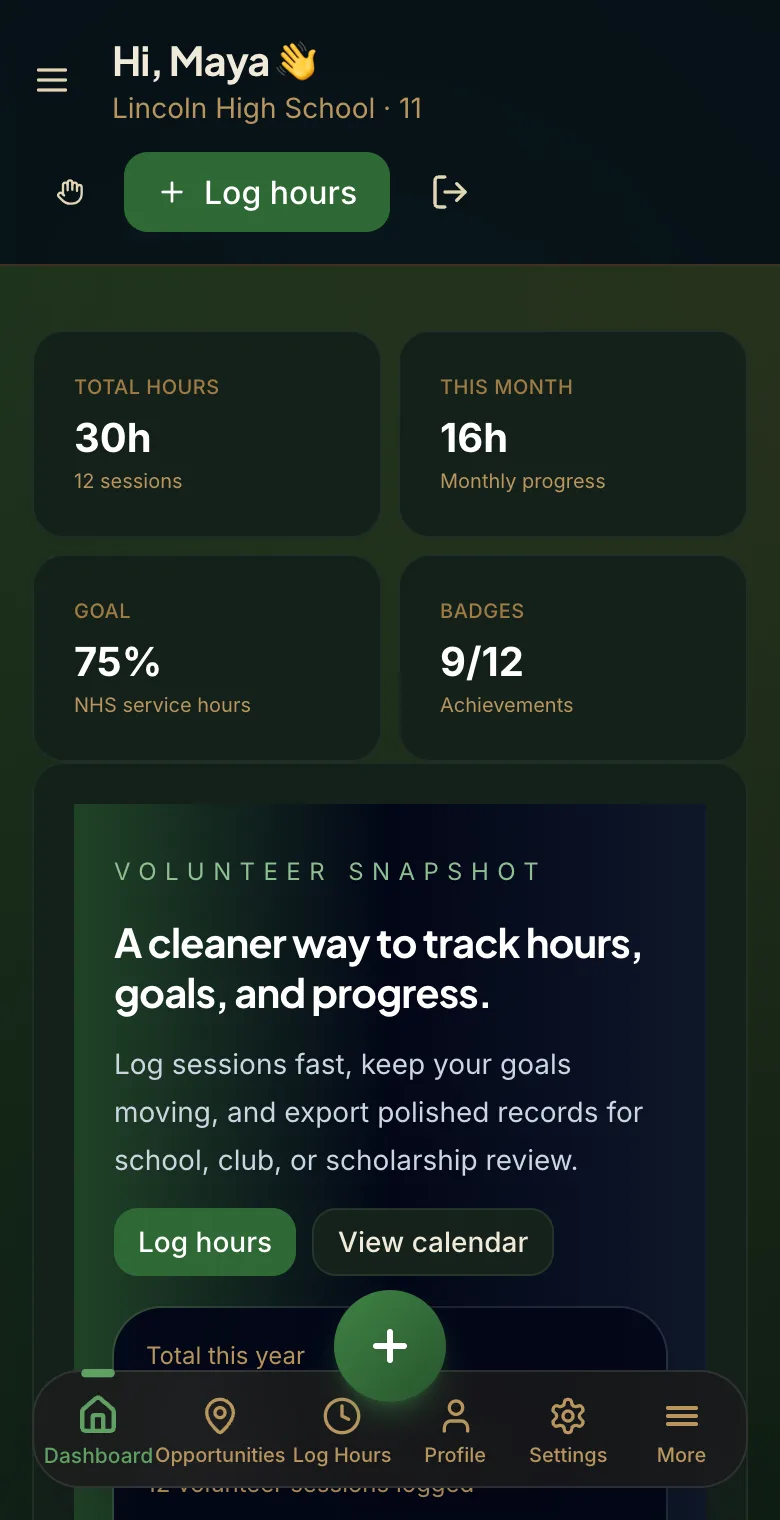
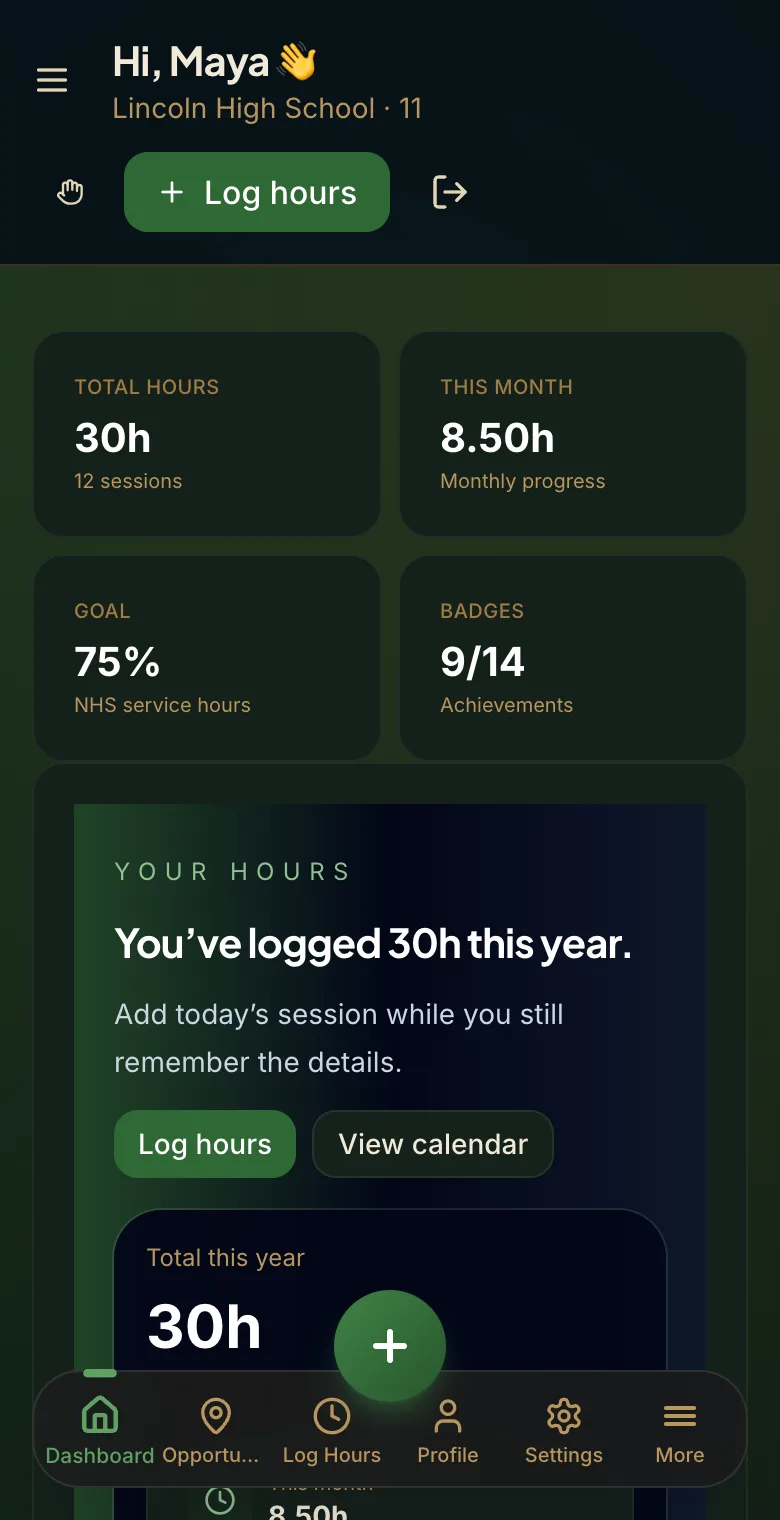
chore(copy): plain, specific wording on the home page and Dashboard (#749)
Closes #748

Claude-Session: https://claude.ai/code/session_01VD58mQLZFLSCNUrZw1JsWE

diff --git a/src/pages/About.jsx b/src/pages/About.jsx
@@ -1,6 +1,6 @@
 import { useState, useEffect, useRef } from 'react'
 import { Link } from 'react-router-dom'
-import { ArrowRight, Target, Trophy, FileText, Calendar, Sparkles, ShieldCheck, Users, Clock, ChevronDown, Star, CheckCircle, QrCode, CalendarClock, ClipboardCheck, BarChart3, Building2, Heart, TreePine, BookOpen as Book, Stethoscope, PawPrint, Palette, Dumbbell, Church, Megaphone, Ambulance, Globe, School, GraduationCap, Building, TrendingUp, Smartphone, Download, Lock, Bell, Zap, Menu, X, FileSignature, UserPlus, Link2, Mail, ClipboardList } from 'lucide-react'
+import { ArrowRight, Target, Trophy, FileText, Calendar, ShieldCheck, Users, Clock, ChevronDown, Star, CheckCircle, QrCode, CalendarClock, ClipboardCheck, BarChart3, Building2, Heart, TreePine, BookOpen as Book, Stethoscope, PawPrint, Palette, Dumbbell, Church, Megaphone, Ambulance, Globe, School, GraduationCap, Building, TrendingUp, Smartphone, Download, Lock, Bell, Zap, Menu, X, FileSignature, UserPlus, Link2, Mail, ClipboardList } from 'lucide-react'
 import Card from '@/components/Card.jsx'
 import Footer from '@/components/Footer.jsx'
 import PromoBanner from '@/components/PromoBanner.jsx'
@@ -16,16 +16,16 @@ const FEATURES = [
   { icon: Calendar,  title: 'Simple hour logging', body: 'Log activity, time, location, and proof so your volunteer work is always ready to share.' },
   { icon: Target,    title: 'Goal progress', body: 'Set a target and watch the progress ring fill as your hours add up.' },
   { icon: Trophy,    title: 'Achievements', body: 'Earn badges for consistency, milestones, and service across categories.' },
-  { icon: FileText,  title: 'Reports & certificates', body: 'Export polished PDFs, CSVs, and printable certifications in seconds.' },
+  { icon: FileText,  title: 'Reports & certificates', body: 'Download a PDF or CSV, or print a certificate of service.' },
 ]
 
 const DETAILED_FEATURES = [
-  { icon: FileSignature, title: 'Signed, verifiable hours', body: 'Supervisors approve your hours with a signature — in person on your phone, from a link you email them, or from their own VolunTrack account if they posted the task. On a laptop, they can scan a QR code and sign on their phone instead.' },
-  { icon: Download, title: 'Export ready for anything', body: 'Generate clean PDF reports with signatures, CSV data exports, and printable certificates for NHS, honor societies, scholarships, and school requirements.' },
+  { icon: FileSignature, title: 'Signed, verifiable hours', body: 'Supervisors approve your hours with a signature: in person on your phone, from a link you email them, or from their own VolunTrack account if they posted the task. On a laptop, they can scan a QR code and sign on their phone instead.' },
+  { icon: Download, title: 'Export ready for anything', body: 'Download PDF reports with signatures, CSV data exports, and printable certificates for NHS, honor societies, scholarships, and school requirements.' },
   { icon: Lock, title: 'Private by design', body: 'Your hours sync securely so your school can review them, and only you, your school and parents you invite can see them. Signature drawings stay on your device. We never sell your data or show ads.' },
   { icon: Bell, title: 'Reminders', body: 'Set recurring reminders so you never forget to log a session. Turn on notifications and they reach you even when VolunTrack isn\'t open.' },
-  { icon: Smartphone, title: 'Works on any device', body: 'Log hours from your phone, tablet, or laptop. Add it to your home screen for an app-like experience that keeps working offline.' },
-  { icon: TrendingUp, title: 'Visual progress tracking', body: 'Monitor your monthly trends with bar charts, watch goal rings fill up, and see your all-time stats at a glance on a single dashboard.' },
+  { icon: Smartphone, title: 'Works on any device', body: 'Log hours from your phone, tablet, or laptop. Add it to your home screen and it keeps working offline.' },
+  { icon: TrendingUp, title: 'Visual progress tracking', body: 'Monitor your monthly trends with bar charts, watch goal rings fill up, and see your all-time totals on one dashboard.' },
   { icon: QrCode, title: 'Event check-in and check-out', body: 'Volunteers check in and out at events with a QR code, a kiosk and their own private PIN, or a check-out PIN from the organizer. Their hours are worked out from the times and sent to the organizer to sign.' },
   { icon: CalendarClock, title: 'Find events when you\'re free', body: 'Tell VolunTrack the days and times you\'re usually free, and Opportunities shows only the events that fit.' },
   { icon: ClipboardCheck, title: 'Clubs and assignments', body: 'Advisers group students into clubs, give a club an hours assignment with a due date, and see who has finished. Students attach their entries to it.' },
@@ -38,19 +38,19 @@ const DETAILED_FEATURES = [
 const HOW_IT_WORKS = {
   student: {
     heading: 'How do you start tracking volunteer hours?',
-    intro: 'Create a free account, log your hours, track progress toward a goal, and export a report — no credit card, in under five minutes.',
+    intro: 'Create a free account, log your hours, track progress toward a goal, and export a report. No credit card, and it takes under five minutes.',
     categories: 'VolunTrack supports a wide range of volunteer categories so you can log whatever service you do.',
     steps: [
       { icon: Users, title: 'Create your account', body: 'Sign up free and confirm your email with a 6-digit code. No credit card needed.' },
       { icon: Clock, title: 'Log your hours', body: 'Record activity, duration, location, and supervisor details on the go.' },
       { icon: BarChart3, title: 'Track progress', body: 'Watch your monthly totals, goal rings, and achievements fill up.' },
-      { icon: Trophy, title: 'Earn & export', body: 'Unlock badges and export polished reports for school or scholarships.' },
+      { icon: Trophy, title: 'Earn & export', body: 'Earn badges along the way, then download a report for school or a scholarship.' },
     ],
   },
   parent: {
     heading: 'How do you follow your child’s hours?',
-    intro: 'A free parent account shows what your child has logged and how close they are to their goal — read only, so the record stays theirs.',
-    categories: 'Whatever kind of service your child does, it counts — and you’ll see each entry with its category.',
+    intro: 'A free parent account shows what your child has logged and how close they are to their goal. It’s read only, so the record stays theirs.',
+    categories: 'Whatever kind of service your child does, it counts, and you’ll see each entry with its category.',
     steps: [
       { icon: UserPlus, title: 'Create a parent account', body: 'Sign up free and choose “I’m a Parent.” No credit card needed.' },
       { icon: Link2, title: 'Link to your child', body: 'Your child finds their link code in Settings → Family. Enter it once to connect.' },
@@ -60,8 +60,8 @@ const HOW_IT_WORKS = {
   },
   volunteer: {
     heading: 'How do you find volunteers?',
-    intro: 'Post an opportunity, approve who signs up, and sign off their hours in VolunTrack — no paperwork for you or the students.',
-    categories: 'Whatever your cause — a food bank, a park cleanup, tutoring, an animal shelter — the students who help can log it.',
+    intro: 'Post an opportunity, approve who signs up, and sign off their hours in VolunTrack. No paperwork for you or the students.',
+    categories: 'A food bank, a park cleanup, tutoring, an animal shelter: whatever your cause, the students who help can log it.',
     steps: [
       { icon: Users, title: 'Create your account', body: 'Sign up free and choose “I’m a Volunteer Task Maker.”' },
       { icon: ClipboardList, title: 'Post a task', body: 'Add what, where, when, and how many volunteers you need. Students find it on their Opportunities page.' },
@@ -87,7 +87,7 @@ const CATEGORIES = [
 const AUDIENCES = [
   {
     icon: GraduationCap, title: 'Students',
-    body: 'Track required service hours for NHS, honor societies, scholarships, and college applications. Export proof-ready reports in seconds.',
+    body: 'Track required service hours for NHS, honor societies, scholarships, and college applications. Download a signed report when it’s due.',
     perks: ['Goal-based hour tracking', 'Signed supervisor approval', 'PDF & CSV exports'],
   },
   {
@@ -97,28 +97,28 @@ const AUDIENCES = [
   },
   {
     icon: Building, title: 'Schools & districts',
-    body: 'Adopt VolunTrack across your entire school or district. Set your own rules — required fields, hour goals, and whether entries must be signed or carry your own form — and every student logs the same way.',
+    body: 'Adopt VolunTrack across your entire school or district. Set your own rules (required fields, hour goals, and whether entries must be signed or carry your own form), and every student logs the same way.',
     perks: ['Your own requirements', 'Signatures & school forms', 'Admin & co-admin dashboards'],
   },
   {
     icon: Globe, title: 'Nonprofits & community groups',
-    body: 'Post volunteer tasks, approve sign-ups, sign off volunteers\' hours right in VolunTrack, and generate impact reports for grants, boards, and stakeholders.',
+    body: 'Post volunteer tasks, approve sign-ups, sign off volunteers\' hours right in VolunTrack, and print impact reports for grants and your board.',
     perks: ['Check-in and check-out', 'Sign off hours in-app', 'Impact reporting'],
   },
 ]
 
 const FAQS = [
-  { q: 'Is VolunTrack free?', a: 'Yes, for individuals. Students, volunteers, and parents get every feature — logging, goals, badges, reminders, reports, supervisor verification — at no cost, with no paid tiers, ads, or hidden fees. Schools and organizations are on custom pricing; contact us for a quote.' },
-  { q: 'Can I export my hours for school requirements?', a: 'Absolutely. From the Reports page you can download a formatted PDF, export a CSV for spreadsheets, or print a certificate of service. Every entry carries its date, hours, activity, category, supervisor, and verification status. If you\'re linked to a school, you can also submit a report to them directly and track whether it\'s approved.' },
-  { q: 'How does supervisor verification work?', a: 'Your supervisor approves the entry with a signature, or rejects it. If they\'re next to you, they can sign right on your phone. If not, add their email: VolunTrack can email them a one-time review link, or give you a ready-made email to send yourself — no account needed on their side, and on a laptop they can scan a QR code to sign on their phone. For tasks from the Opportunities page, the organizer signs it off from their own VolunTrack account. The entry then shows as Pending, Approved, or Rejected, and your school can see how each one was signed.' },
-  { q: 'Is my data private?', a: "Yes. Your hours are stored in a secure database, protected by your password and, if you turn them on, two-factor authentication or a passkey. They're visible only to you, the school you join, and parents you invite. Signature drawings stay on your device — the server only records that an entry was signed. We never sell your data or show ads. See the Privacy Policy for the details." },
-  { q: 'Can schools and organizations use VolunTrack?', a: 'Yes. One club or class with up to 50 students can start free right away from the school sign-up page. For a whole school, contact us for a quote and we\'ll send a one-time registration code to set up its account. The school then shares a join code so students link their hours to the school for review and approval, with dashboards for reports, students, and announcements. A school sets its own requirements: which fields an entry needs, extra questions, the hour goal, and whether each entry must be signed — by the supervisor, the student, or both — or come with the school\'s own form, including a Google Form students fill in without leaving VolunTrack. Up to 10 co-admins can share a school\'s dashboard. Organization accounts (for managing multiple schools) are set up the same way, with an invite or a one-time code from us, on custom pricing.' },
-  { q: 'Can a parent follow my hours?', a: 'Only if you invite them. In Settings, generate a family link code and share it with your parent, who enters it in their own account. Each code works once, and you can see and remove linked parents at any time. They get a read-only view of hours you log from the moment they link — earlier entries stay private, and they can\'t edit or delete anything — plus an optional weekly progress email they can unsubscribe from at any time.' },
-  { q: 'Where can I find volunteer opportunities?', a: 'The Opportunities page lists public tasks posted by schools and organizations, sorted by distance if you share your location. Sign up in one click; once the organizer approves you, link your hours to the task when you log them and the organizer signs them off from their own account — nothing to email.' },
-  { q: 'What if I forget to log a session?', a: 'You can log past sessions anytime — just set the date when you add the entry. The Reminders page also lets you schedule recurring nudges so sessions don\'t pile up unrecorded.' },
-  { q: 'Does VolunTrack work offline?', a: 'Yes. VolunTrack is a Progressive Web App — after your first visit, it keeps working without an internet connection, and the hours already on your device stay available. Anything that needs the server, like syncing or school submissions, catches up once you\'re back online.' },
+  { q: 'Is VolunTrack free?', a: 'Yes, for individuals. Students, volunteers, and parents get every feature (logging, goals, badges, reminders, reports, supervisor sign-off) at no cost, with no paid tiers, ads, or hidden fees. Schools and organizations are on custom pricing; contact us for a quote.' },
+  { q: 'Can I export my hours for school requirements?', a: 'Yes. From the Reports page you can download a formatted PDF, export a CSV for spreadsheets, or print a certificate of service. Every entry carries its date, hours, activity, category, supervisor, and verification status. If you\'re linked to a school, you can also submit a report to them directly and track whether it\'s approved.' },
+  { q: 'How does supervisor verification work?', a: 'Your supervisor approves the entry with a signature, or rejects it. If they\'re next to you, they can sign right on your phone. If not, add their email: VolunTrack can email them a one-time review link, or give you a ready-made email to send yourself. They don’t need an account, and on a laptop they can scan a QR code to sign on their phone. For tasks from the Opportunities page, the organizer signs it off from their own VolunTrack account. The entry then shows as Pending, Approved, or Rejected, and your school can see how each one was signed.' },
+  { q: 'Is my data private?', a: "Yes. Your hours are stored in a secure database, protected by your password and, if you turn them on, two-factor authentication or a passkey. They're visible only to you, the school you join, and parents you invite. Signature drawings stay on your device; the server only records that an entry was signed. We never sell your data or show ads. See the Privacy Policy for the details." },
+  { q: 'Can schools and organizations use VolunTrack?', a: 'Yes. One club or class with up to 50 students can start free right away from the school sign-up page. For a whole school, contact us for a quote and we\'ll send a one-time registration code to set up its account. The school then shares a join code so students link their hours to the school for review and approval, with dashboards for reports, students, and announcements. A school sets its own requirements: which fields an entry needs, extra questions, the hour goal, and whether each entry must be signed (by the supervisor, the student, or both) or come with the school\'s own form, including a Google Form students fill in without leaving VolunTrack. Up to 10 co-admins can share a school\'s dashboard. Organization accounts (for managing multiple schools) are set up the same way, with an invite or a one-time code from us, on custom pricing.' },
+  { q: 'Can a parent follow my hours?', a: 'Only if you invite them. In Settings, generate a family link code and share it with your parent, who enters it in their own account. Each code works once, and you can see and remove linked parents at any time. They get a read-only view of hours you log from the moment they link. Earlier entries stay private, and they can\'t edit or delete anything. They can also get an optional weekly progress email they can unsubscribe from at any time.' },
+  { q: 'Where can I find volunteer opportunities?', a: 'The Opportunities page lists public tasks posted by schools and organizations, sorted by distance if you share your location. Sign up in one click; once the organizer approves you, link your hours to the task when you log them and the organizer signs them off from their own account, so there’s nothing to email.' },
+  { q: 'What if I forget to log a session?', a: 'You can log past sessions anytime. Just set the date when you add the entry. The Reminders page also lets you schedule recurring nudges so sessions don\'t pile up unrecorded.' },
+  { q: 'Does VolunTrack work offline?', a: 'Yes. VolunTrack is a Progressive Web App. After your first visit, it keeps working without an internet connection, and the hours already on your device stay available. Anything that needs the server, like syncing or school submissions, catches up once you\'re back online.' },
   { q: 'What if I switch devices?', a: 'Sign in on the new device with your email and password and your hours come with you. To skip typing your password, go to Settings on a signed-in device and generate a sync PIN (the card is called Mobile sync PIN on a computer, Laptop sync PIN on a phone). On the new device, choose Use sync PIN on the login page and enter the 5-digit code, or scan its QR code. A sync PIN works once and expires after 15 minutes.' },
-  { q: 'Do I need to create an account?', a: "Yes — a free account is how your hours are saved, synced across your devices, and shared with your school. Sign up with your name, email, password (at least 8 characters) and date of birth, then enter the 6-digit code we email you to confirm your address; the code expires after 10 minutes. If you're under 13, a parent or guardian approves the account by email first." },
+  { q: 'Do I need to create an account?', a: "Yes. A free account is how your hours are saved, synced across your devices, and shared with your school. Sign up with your name, email, password (at least 8 characters) and date of birth, then enter the 6-digit code we email you to confirm your address; the code expires after 10 minutes. If you're under 13, a parent or guardian approves the account by email first." },
   { q: 'Is there a mobile app?', a: 'Android and iPhone apps are on the way to Google Play and the App Store. Until then, VolunTrack is a Progressive Web App: open it in your phone\'s browser and tap "Add to Home Screen" for an app-like experience that works offline.' },
 ]
 
@@ -194,7 +194,7 @@ export default function About() {
   // to "/" so search engines don't treat them as duplicate pages.
   useSeo({
     title: 'Volunteer Hour Tracker for Students & Schools',
-    description: 'VolunTrack is a calm volunteer hour tracker. Log hours, set goals, earn badges, and generate reports for school or community service.',
+    description: 'Free volunteer hour tracker for students. Log hours, get them signed by your supervisor, and download a report for NHS, scholarships or graduation.',
     canonicalPath: '/',
     jsonLd: faqJsonLd,
   })
@@ -280,15 +280,15 @@ export default function About() {
               className="inline-block text-left mb-6 max-w-md"
               fallback={(
                 <div className="inline-flex items-center gap-2 rounded-full border border-brand-700/30 bg-brand-900/20 px-4 py-1.5 text-xs font-medium text-brand-300 mb-6">
-                  <Zap className="w-3.5 h-3.5 animate-float" /> Free for students — no credit card needed
+                  <Zap className="w-3.5 h-3.5 animate-float" /> Free for students, no credit card
                 </div>
               )}
             />
             <h1 className="text-4xl md:text-6xl font-bold tracking-tight text-white leading-tight">
-              Track your volunteer hours, earn rewards, and showcase your impact.
+              Your volunteer hours, logged, signed and ready when school asks.
             </h1>
             <p className="mt-5 text-lg md:text-xl text-earth-300 max-w-2xl mx-auto leading-8">
-              VolunTrack gives students and organizations a clean, private way to log service work, measure progress toward goals, and export polished records for school, scholarship, or club requirements.
+              Log a session in about a minute, get your supervisor to sign it on your phone, and print a report when NHS, a scholarship or graduation asks for your hours. Free for students.
             </p>
             <div ref={heroCtaRef} className="mt-8 flex flex-col sm:flex-row gap-3 justify-center">
               <Link to="/register" className="btn-primary inline-flex items-center gap-2 justify-center px-8 py-3.5 rounded-xl text-base font-semibold">
@@ -357,12 +357,12 @@ export default function About() {
                 <p className="text-sm uppercase tracking-[0.35em] text-brand-600">Core features</p>
                 <h2 className="mt-3 text-3xl font-bold text-earth-950 dark:text-white">What can you do with VolunTrack?</h2>
                 <p className="mt-3 text-earth-300 font-semibold max-w-xl">
-                  Log hours with proof, track progress toward a goal, earn achievement badges, and export polished PDF/CSV reports and certificates.
+                  Log hours with proof, track progress toward a goal, earn achievement badges, and download PDF or CSV reports and certificates.
                 </p>
               </div>
               <div className="flex flex-wrap gap-3">
-                <span className="inline-flex items-center gap-2 rounded-full bg-brand-100 px-4 py-2 text-sm font-semibold text-brand-700 dark:bg-brand-900/30 dark:text-brand-300"><ShieldCheck className="w-4 h-4" /> Private — no ads, never sold</span>
-                <span className="inline-flex items-center gap-2 rounded-full bg-earth-100 px-4 py-2 text-sm font-semibold text-earth-700 dark:bg-white/5 dark:text-earth-300"><Users className="w-4 h-4" /> Volunteer Task Maker — post opportunities</span>
+                <span className="inline-flex items-center gap-2 rounded-full bg-brand-100 px-4 py-2 text-sm font-semibold text-brand-700 dark:bg-brand-900/30 dark:text-brand-300"><ShieldCheck className="w-4 h-4" /> Private: no ads, never sold</span>
+                <span className="inline-flex items-center gap-2 rounded-full bg-earth-100 px-4 py-2 text-sm font-semibold text-earth-700 dark:bg-white/5 dark:text-earth-300"><Users className="w-4 h-4" /> Volunteer Task Maker: post opportunities</span>
                 <span className="inline-flex items-center gap-2 rounded-full bg-earth-100 px-4 py-2 text-sm font-semibold text-earth-700 dark:bg-white/5 dark:text-earth-300"><FileSignature className="w-4 h-4" /> Signed supervisor approval</span>
               </div>
             </div>
@@ -473,8 +473,7 @@ export default function About() {
           </section>
 
           <section ref={endCtaRef} data-animate className="mt-20 rounded-[2rem] bg-gradient-to-br from-brand-600 to-brand-700 p-10 md:p-16 text-center">
-            <Sparkles className="w-10 h-10 text-brand-200 mx-auto animate-float" />
-            <h2 className="mt-4 text-3xl md:text-4xl font-bold text-white">Ready to start tracking your impact?</h2>
+            <h2 className="text-3xl md:text-4xl font-bold text-white">Log your first hours today.</h2>
             <p className="mt-3 text-brand-100 max-w-lg mx-auto leading-7">
               Log your first hours in minutes. It&rsquo;s free for students, with no credit card and no ads.
             </p>
@@ -497,7 +496,7 @@ export default function About() {
               <ul className="mt-6 space-y-3 text-sm text-earth-700 dark:text-earth-300">
                 <li className="flex items-start gap-3"><CheckCircle className="w-5 h-5 text-brand-500 shrink-0 mt-0.5" /> Save each session with location, category, and supervisor details</li>
                 <li className="flex items-start gap-3"><CheckCircle className="w-5 h-5 text-brand-500 shrink-0 mt-0.5" /> Watch your month and goal progress in one dashboard</li>
-                <li className="flex items-start gap-3"><CheckCircle className="w-5 h-5 text-brand-500 shrink-0 mt-0.5" /> Get each entry signed — in person, by email, or by the task organizer</li>
+                <li className="flex items-start gap-3"><CheckCircle className="w-5 h-5 text-brand-500 shrink-0 mt-0.5" /> Get each entry signed in person, by email, or by the task organizer</li>
                 <li className="flex items-start gap-3"><CheckCircle className="w-5 h-5 text-brand-500 shrink-0 mt-0.5" /> Export proofs instantly for school or community review</li>
               </ul>
             </Card>

diff --git a/index.html b/index.html
@@ -6,7 +6,7 @@
     <link rel="apple-touch-icon" sizes="180x180" href="/apple-touch-icon.png" />
     <meta name="viewport" content="width=device-width, initial-scale=1.0, viewport-fit=cover" />
     <meta name="theme-color" content="#3f8344" />
-    <meta name="description" content="VolunTrack is a calm volunteer hour tracker. Log hours, set goals, earn badges, and generate reports for school or community service." />
+    <meta name="description" content="Free volunteer hour tracker for students. Log hours, get them signed by your supervisor, and download a report for NHS, scholarships or graduation." />
     <meta name="apple-mobile-web-app-capable" content="yes" />
     <meta name="apple-mobile-web-app-status-bar-style" content="default" />
     <meta name="apple-mobile-web-app-title" content="VolunTrack" />
@@ -22,7 +22,7 @@
     <meta property="og:type" content="website" />
     <meta property="og:site_name" content="VolunTrack" />
     <meta property="og:title" content="VolunTrack · Volunteer Hour Tracker" />
-    <meta property="og:description" content="VolunTrack is a calm volunteer hour tracker. Log hours, set goals, earn badges, and generate reports for school or community service." />
+    <meta property="og:description" content="Free volunteer hour tracker for students. Log hours, get them signed by your supervisor, and download a report for NHS, scholarships or graduation." />
     <meta property="og:url" content="%VITE_SITE_URL%/" />
     <meta property="og:image" content="%VITE_SITE_URL%/og-image.png" />
     <meta property="og:image:width" content="1200" />
@@ -30,7 +30,7 @@
     <meta property="og:image:alt" content="VolunTrack — track volunteer hours, get them signed off, and share them with your school." />
     <meta name="twitter:card" content="summary_large_image" />
     <meta name="twitter:title" content="VolunTrack · Volunteer Hour Tracker" />
-    <meta name="twitter:description" content="VolunTrack is a calm volunteer hour tracker. Log hours, set goals, earn badges, and generate reports for school or community service." />
+    <meta name="twitter:description" content="Free volunteer hour tracker for students. Log hours, get them signed by your supervisor, and download a report for NHS, scholarships or graduation." />
     <meta name="twitter:image" content="%VITE_SITE_URL%/og-image.png" />
     <meta name="twitter:image:alt" content="VolunTrack — track volunteer hours, get them signed off, and share them with your school." />
 
@@ -44,7 +44,7 @@
         "applicationSubCategory": "Volunteer hour tracker",
         "operatingSystem": "Web",
         "browserRequirements": "Requires JavaScript. Requires HTML5.",
-        "description": "VolunTrack is a calm volunteer hour tracker. Log hours, set goals, earn badges, and generate reports for school or community service.",
+        "description": "Free volunteer hour tracker for students. Log hours, get them signed by your supervisor, and download a report for NHS, scholarships or graduation.",
         "featureList": [
           "Log volunteer hours with activity, category, location, and notes",
           "Supervisor verification by one-time email link (no account needed)",

diff --git a/src/components/DashboardGallery.jsx b/src/components/DashboardGallery.jsx
@@ -17,7 +17,7 @@ const ROLES = [
     screens: [
       screen('dashboard', 'Dashboard', 'dashboard',
         'Students see their goal, this month’s hours, and badges at a glance.',
-        'The VolunTrack student dashboard: 30 hours logged this year, 75% of a 40-hour NHS service goal, 9 of 12 badges earned, and this week’s hours.'),
+        'The VolunTrack student dashboard: 30 hours logged this year, 75% of a 40-hour NHS service goal, 9 of 14 badges earned, and this week’s hours.'),
       screen('opportunities', 'Opportunities', 'student-opportunities',
         'Find volunteer tasks near you and sign up in a tap.',
         'The Opportunities page: upcoming volunteer tasks such as a park cleanup, dog walking and a kids’ reading hour, each with its date, place and spots left.'),
@@ -52,7 +52,7 @@ const ROLES = [
         'Organizers post volunteer tasks and see who has signed up.',
         'The task organizer view: three upcoming volunteer tasks with dates, locations, and how many students have signed up.'),
       screen('post', 'Post a task', 'volunteer-post',
-        'Posting an opportunity is one short form — no paperwork.',
+        'Posting an opportunity is one short form, no paperwork.',
         'The Post a volunteer opportunity form: title, description, location, important info, phone, date, time and volunteers needed.'),
       screen('signups', 'Sign-ups', 'volunteer-signups',
         'Approve volunteers, then sign off their hours right in VolunTrack.',
@@ -188,7 +188,7 @@ export default function DashboardGallery({ onRoleChange }) {
       </div>
       <figcaption className="mt-3 text-center text-sm text-earth-400" aria-live="polite">
         {current.caption}
-        {hasMenu && <span className="block text-xs text-earth-500 mt-1">Click the screens above to look around — this is a preview with sample data.</span>}
+        {hasMenu && <span className="block text-xs text-earth-500 mt-1">Click the screens above to look around. This is a preview with sample data.</span>}
       </figcaption>
     </figure>
   )

diff --git a/src/pages/Dashboard.jsx b/src/pages/Dashboard.jsx
@@ -676,16 +676,20 @@ export default function Dashboard() {
           its content's min width, which pushed this card past the screen edge
           on phones. Desktop keeps the implicit columns its col-span-3 relies on. */}
       <div className="grid grid-cols-1 lg:grid-cols-none gap-5">
-        {/* A pitch ("A cleaner way to track hours…") — the apps' tiles above
-            already show these numbers, so it's left out there. */}
+        {/* Where the student stands this year; the apps' tiles above already
+            show these numbers, so it's left out there. */}
         {!isNativeApp && (
           <Card className="overflow-hidden lg:col-span-3">
             <div className="grid grid-cols-1 gap-4 lg:grid-cols-[1.5fr_1fr] bg-gradient-to-r from-brand-800 via-slate-950 to-slate-900 p-5">
               <div className="space-y-3 text-white">
-                <span className="text-xs uppercase tracking-[0.35em] text-brand-300">{tr('Volunteer snapshot')}</span>
-                <h2 className="text-xl font-bold leading-tight">{tr('A cleaner way to track hours, goals, and progress.')}</h2>
+                <span className="text-xs uppercase tracking-[0.35em] text-brand-300">{tr('Your hours')}</span>
+                <h2 className="text-xl font-bold leading-tight">
+                  {logs.length ? tr('You’ve logged {hours} this year.', { hours: fmtHours(total) }) : tr('Log your first hours')}
+                </h2>
                 <p className="max-w-xl text-sm text-slate-300 leading-6">
-                  {tr('Log sessions fast, keep your goals moving, and export polished records for school, club, or scholarship review.')}
+                  {logs.length
+                    ? tr('Add today’s session while you still remember the details.')
+                    : tr('It takes about a minute: what you did, when, where, and who can sign it.')}
                 </p>
                 <div className="flex flex-wrap gap-2">
                   <RoleLink to="/log" className="btn-primary btn-sm">{tr('Log hours')}</RoleLink>

diff --git a/src/pages/ForSchools.jsx b/src/pages/ForSchools.jsx
@@ -40,7 +40,7 @@ const STEPS = [
 const FAQS = [
   { q: 'What does it cost?', a: 'VolunTrack is free for students, volunteers and parents. One club or class with up to 50 students is free too, with every feature. A whole school, or a club with more students, is paid: send us a message and we will reply with a quote. If another school referred you, you both get a discount.' },
   { q: 'Do students need to download an app?', a: 'No. VolunTrack works in any web browser on a phone or computer, so students can sign up the moment they scan your flyer.' },
-  { q: 'Can one club use it, not the whole school?', a: 'Yes, and it is free for up to 50 students. Many schools start with one adviser — NHS, Key Club, a service club or a class. The club gets its own account, code and roster, and can move to a school plan later without losing anything.' },
+  { q: 'Can one club use it, not the whole school?', a: 'Yes, and it is free for up to 50 students. Many schools start with one adviser: NHS, Key Club, a service club or a class. The club gets its own account, code and roster, and can move to a school plan later without losing anything.' },
   { q: 'How do students join?', a: 'They open your join link or scan the QR code on your flyer, then create an account or sign in. The code is filled in for them. Students can also type the school code in Settings.' },
   { q: 'What happens to student data?', a: 'Students’ hours belong to them and to your school. We never sell or trade personal data, and we share it only with the school or parent a student connects to. Read the privacy policy for the details schools and districts ask about.' },
   { q: 'How long does setup take?', a: 'About five minutes: create the account, set your requirement, and send the join link.' },

diff --git a/src/locales/vi.js b/src/locales/vi.js
@@ -3072,4 +3072,9 @@ export default {
   "Links you share to an event, a school or your invite show a preview with its name.": "Liên kết bạn chia sẻ tới sự kiện, trường hoặc lời mời sẽ hiện bản xem trước kèm tên.",
   "Welcome tours": "Hướng dẫn chào mừng",
   "which welcome tours you have finished or skipped, so each one shows only once on any device. Deleted with your account.": "những hướng dẫn chào mừng bạn đã xem xong hoặc bỏ qua, để mỗi hướng dẫn chỉ hiện một lần trên mọi thiết bị. Bị xóa cùng tài khoản của bạn.",
+  "Your hours": "Giờ của bạn",
+  "You’ve logged {hours} this year.": "Năm nay bạn đã ghi {hours}.",
+  "Log your first hours": "Ghi những giờ đầu tiên",
+  "Add today’s session while you still remember the details.": "Hãy thêm buổi hôm nay khi bạn còn nhớ chi tiết.",
+  "It takes about a minute: what you did, when, where, and who can sign it.": "Chỉ mất khoảng một phút: bạn đã làm gì, khi nào, ở đâu và ai có thể ký xác nhận.",
 }

diff --git a/src/locales/es.js b/src/locales/es.js
@@ -3101,4 +3101,9 @@ export default {
   "Links you share to an event, a school or your invite show a preview with its name.": "Los enlaces que compartes a un evento, una escuela o tu invitación muestran una vista previa con su nombre.",
   "Welcome tours": "Recorridos de bienvenida",
   "which welcome tours you have finished or skipped, so each one shows only once on any device. Deleted with your account.": "qué recorridos de bienvenida terminaste u omitiste, para que cada uno aparezca solo una vez en cualquier dispositivo. Se borra con tu cuenta.",
+  "Your hours": "Tus horas",
+  "You’ve logged {hours} this year.": "Llevas {hours} registradas este año.",
+  "Log your first hours": "Registra tus primeras horas",
+  "Add today’s session while you still remember the details.": "Agrega la sesión de hoy mientras recuerdas los detalles.",
+  "It takes about a minute: what you did, when, where, and who can sign it.": "Toma como un minuto: qué hiciste, cuándo, dónde y quién puede firmarlo.",
 }

diff --git a/src/locales/zh.js b/src/locales/zh.js
@@ -3072,4 +3072,9 @@ export default {
   "Links you share to an event, a school or your invite show a preview with its name.": "你分享的活动、学校或邀请链接会显示带名称的预览。",
   "Welcome tours": "欢迎导览",
   "which welcome tours you have finished or skipped, so each one shows only once on any device. Deleted with your account.": "你已看完或跳过的欢迎导览，这样每个导览在任何设备上只出现一次。随账户一起删除。",
+  "Your hours": "你的时数",
+  "You’ve logged {hours} this year.": "今年你已记录 {hours}。",
+  "Log your first hours": "记录你的第一批时数",
+  "Add today’s session while you still remember the details.": "趁还记得细节，把今天的活动加上。",
+  "It takes about a minute: what you did, when, where, and who can sign it.": "大约一分钟：你做了什么、什么时候、在哪里，以及谁可以签字确认。",
 }
